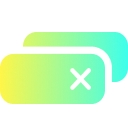
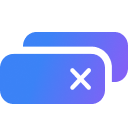
Use FETCH_SUBSCRIPTION message type
Rename runtime message type from GET_SUBSCRIPTION to FETCH_SUBSCRIPTION in popup.js and spotlight.js (including the copies under tablicate Extension/Resources). Also updates icon assets (.DS_Store and images/Icon*.png). This aligns the IPC message naming with the background handler to avoid mismatched subscription requests.

diff --git a/spotlight.js b/spotlight.js
@@ -27,7 +27,7 @@ document.addEventListener('DOMContentLoaded', () => {
 
     // ── Subscription / Tier helpers ────────────────────────────────────
     function fetchSubscription(cb) {
-        chrome.runtime.sendMessage({ type: 'GET_SUBSCRIPTION' }, (sub) => {
+        chrome.runtime.sendMessage({ type: 'FETCH_SUBSCRIPTION' }, (sub) => {
             cachedSubscription = sub || { tier: 'free', status: 'active', limits: {} };
             if (cb) cb(cachedSubscription);
         });

diff --git a/tablicate/tablicate Extension/Resources/spotlight.js b/tablicate/tablicate Extension/Resources/spotlight.js
@@ -27,7 +27,7 @@ document.addEventListener('DOMContentLoaded', () => {
 
     // ── Subscription / Tier helpers ────────────────────────────────────
     function fetchSubscription(cb) {
-        chrome.runtime.sendMessage({ type: 'GET_SUBSCRIPTION' }, (sub) => {
+        chrome.runtime.sendMessage({ type: 'FETCH_SUBSCRIPTION' }, (sub) => {
             cachedSubscription = sub || { tier: 'free', status: 'active', limits: {} };
             if (cb) cb(cachedSubscription);
         });

diff --git a/popup.js b/popup.js
@@ -247,7 +247,7 @@ document.addEventListener('DOMContentLoaded', () => {
     };
 
     const fetchAndDisplayPlan = () => {
-        sendMsg({ type: 'GET_SUBSCRIPTION' }, (sub) => {
+        sendMsg({ type: 'FETCH_SUBSCRIPTION' }, (sub) => {
             updatePlanUI(sub);
         });
     };

diff --git a/tablicate/tablicate Extension/Resources/popup.js b/tablicate/tablicate Extension/Resources/popup.js
@@ -247,7 +247,7 @@ document.addEventListener('DOMContentLoaded', () => {
     };
 
     const fetchAndDisplayPlan = () => {
-        sendMsg({ type: 'GET_SUBSCRIPTION' }, (sub) => {
+        sendMsg({ type: 'FETCH_SUBSCRIPTION' }, (sub) => {
             updatePlanUI(sub);
         });
     };
